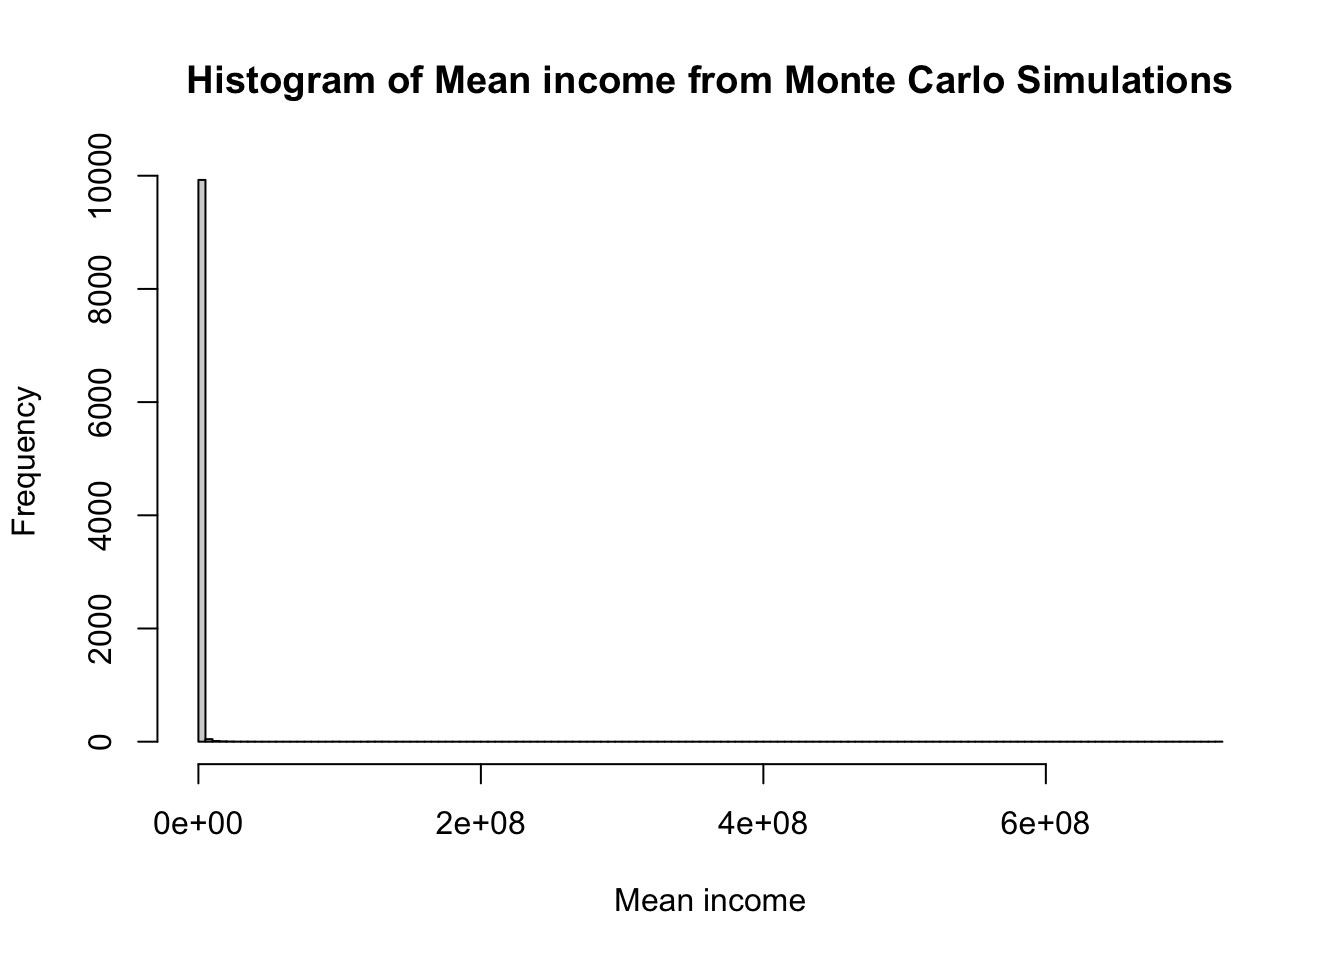
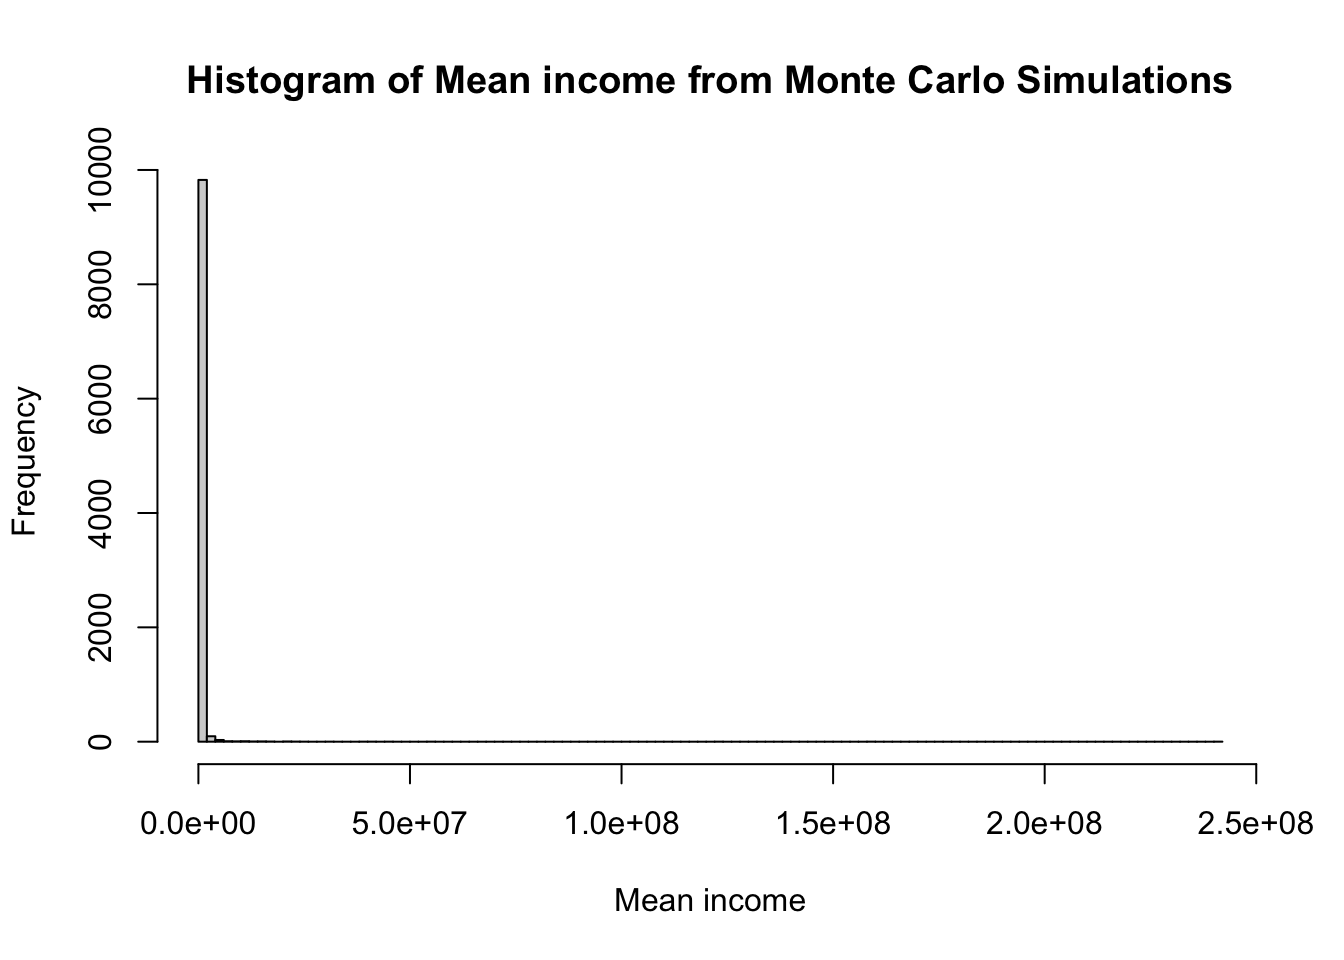
css change quarto side bar

diff --git a/docs/posts/gukesh.html b/docs/posts/gukesh.html
@@ -2036,7 +2036,37 @@ cookieconsent.run({
 <div id="quarto-sidebar-glass" class="quarto-sidebar-collapse-item" data-bs-toggle="collapse" data-bs-target=".quarto-sidebar-collapse-item"></div>
 <!-- margin-sidebar -->
     <div id="quarto-margin-sidebar" class="sidebar margin-sidebar"><div class="quarto-margin-header"><div class="margin-header-item">
-<p>subscribe.html</p>
+<div id="mc_embed_shell">
+      <link href="//cdn-images.mailchimp.com/embedcode/classic-061523.css" rel="stylesheet" type="text/css">
+  <style type="text/css">
+        #mc_embed_signup{background:#fff; false;clear:left; font:14px Helvetica,Arial,sans-serif; width: px;}
+        /* Add your own Mailchimp form style overrides in your site stylesheet or in this style block.
+           We recommend moving this block and the preceding CSS link to the HEAD of your HTML file. */
+</style>
+<div id="mc_embed_signup">
+    <form action="https://knotes.us17.list-manage.com/subscribe/post?u=cbd11e712b45e98cdaab2dd4d&amp;id=aeaca1e768&amp;f_id=00dbc2e1f0" method="post" id="mc-embedded-subscribe-form" name="mc-embedded-subscribe-form" class="validate" target="_blank">
+        <div id="mc_embed_signup_scroll"><h2>Subscribe</h2>
+            <div class="indicates-required"><span class="asterisk">*</span> indicates required</div>
+            <div class="mc-field-group"><label for="mce-EMAIL">Email Address <span class="asterisk">*</span></label><input type="email" name="EMAIL" class="required email" id="mce-EMAIL" required="" value=""></div>
+        <div id="mce-responses" class="clear foot">
+            <div class="response" id="mce-error-response" style="display: none;"></div>
+            <div class="response" id="mce-success-response" style="display: none;"></div>
+        </div>
+    <div aria-hidden="true" style="position: absolute; left: -5000px;">
+        /* real people should not fill this in and expect good things - do not remove this or risk form bot signups */
+        <input type="text" name="b_cbd11e712b45e98cdaab2dd4d_aeaca1e768" tabindex="-1" value="">
+    </div>
+        <div class="optionalParent">
+            <div class="clear foot">
+                <input type="submit" name="subscribe" id="mc-embedded-subscribe" class="button" value="Subscribe">
+                
+            </div>
+        </div>
+    </div>
+</form>
+</div>
+<script type="text/javascript" src="//s3.amazonaws.com/downloads.mailchimp.com/js/mc-validate.js"></script><script type="text/javascript">(function($) {window.fnames = new Array(); window.ftypes = new Array();fnames[0]='EMAIL';ftypes[0]='email';fnames[1]='FNAME';ftypes[1]='text';fnames[2]='LNAME';ftypes[2]='text';fnames[3]='ADDRESS';ftypes[3]='address';fnames[4]='PHONE';ftypes[4]='phone';fnames[5]='BIRTHDAY';ftypes[5]='birthday';}(jQuery));var $mcj = jQuery.noConflict(true);</script></div>
+
 </div></div>
         <nav id="TOC" role="doc-toc" class="toc-active">
     <h2 id="toc-title">On this page</h2>

diff --git a/docs/posts/pm.html b/docs/posts/pm.html
@@ -2027,7 +2027,37 @@ cookieconsent.run({
 <div id="quarto-sidebar-glass" class="quarto-sidebar-collapse-item" data-bs-toggle="collapse" data-bs-target=".quarto-sidebar-collapse-item"></div>
 <!-- margin-sidebar -->
     <div id="quarto-margin-sidebar" class="sidebar margin-sidebar"><div class="quarto-margin-header"><div class="margin-header-item">
-<p>subscribe.html</p>
+<div id="mc_embed_shell">
+      <link href="//cdn-images.mailchimp.com/embedcode/classic-061523.css" rel="stylesheet" type="text/css">
+  <style type="text/css">
+        #mc_embed_signup{background:#fff; false;clear:left; font:14px Helvetica,Arial,sans-serif; width: px;}
+        /* Add your own Mailchimp form style overrides in your site stylesheet or in this style block.
+           We recommend moving this block and the preceding CSS link to the HEAD of your HTML file. */
+</style>
+<div id="mc_embed_signup">
+    <form action="https://knotes.us17.list-manage.com/subscribe/post?u=cbd11e712b45e98cdaab2dd4d&amp;id=aeaca1e768&amp;f_id=00dbc2e1f0" method="post" id="mc-embedded-subscribe-form" name="mc-embedded-subscribe-form" class="validate" target="_blank">
+        <div id="mc_embed_signup_scroll"><h2>Subscribe</h2>
+            <div class="indicates-required"><span class="asterisk">*</span> indicates required</div>
+            <div class="mc-field-group"><label for="mce-EMAIL">Email Address <span class="asterisk">*</span></label><input type="email" name="EMAIL" class="required email" id="mce-EMAIL" required="" value=""></div>
+        <div id="mce-responses" class="clear foot">
+            <div class="response" id="mce-error-response" style="display: none;"></div>
+            <div class="response" id="mce-success-response" style="display: none;"></div>
+        </div>
+    <div aria-hidden="true" style="position: absolute; left: -5000px;">
+        /* real people should not fill this in and expect good things - do not remove this or risk form bot signups */
+        <input type="text" name="b_cbd11e712b45e98cdaab2dd4d_aeaca1e768" tabindex="-1" value="">
+    </div>
+        <div class="optionalParent">
+            <div class="clear foot">
+                <input type="submit" name="subscribe" id="mc-embedded-subscribe" class="button" value="Subscribe">
+                
+            </div>
+        </div>
+    </div>
+</form>
+</div>
+<script type="text/javascript" src="//s3.amazonaws.com/downloads.mailchimp.com/js/mc-validate.js"></script><script type="text/javascript">(function($) {window.fnames = new Array(); window.ftypes = new Array();fnames[0]='EMAIL';ftypes[0]='email';fnames[1]='FNAME';ftypes[1]='text';fnames[2]='LNAME';ftypes[2]='text';fnames[3]='ADDRESS';ftypes[3]='address';fnames[4]='PHONE';ftypes[4]='phone';fnames[5]='BIRTHDAY';ftypes[5]='birthday';}(jQuery));var $mcj = jQuery.noConflict(true);</script></div>
+
 </div></div>
         
     </div>

diff --git a/docs/posts/montecarlo.html b/docs/posts/montecarlo.html
@@ -2308,7 +2308,7 @@ Income distribution is not normal
 </details>
 <div class="cell-output cell-output-stdout">
 <pre><code>     Min.   1st Qu.    Median      Mean   3rd Qu.      Max. 
-   212167    296092    343582    629533    436999 720160384 </code></pre>
+   212225    296442    344112    570107    438926 241969613 </code></pre>
 </div>
 <details open="" class="code-fold">
 <summary>Code</summary>
@@ -2316,7 +2316,7 @@ Income distribution is not normal
 </details>
 <div class="cell-output cell-output-stdout">
 <pre><code>   Min. 1st Qu.  Median    Mean 3rd Qu.    Max. 
-  62091   64080   64512   64513   64937   66994 </code></pre>
+  62157   64068   64511   64509   64933   67070 </code></pre>
 </div>
 <details open="" class="code-fold">
 <summary>Code</summary>
@@ -2324,7 +2324,7 @@ Income distribution is not normal
 </details>
 <div class="cell-output cell-output-stdout">
 <pre><code>     Min.   1st Qu.    Median      Mean   3rd Qu.      Max. 
-8.952e+05 3.317e+06 5.716e+06 3.350e+07 1.190e+07 7.197e+10 </code></pre>
+9.149e+05 3.346e+06 5.665e+06 2.760e+07 1.202e+07 2.417e+10 </code></pre>
 </div>
 </div>
 </section>

diff --git a/docs/Biomedical/Research Methodology/wrangling.html b/docs/Biomedical/Research Methodology/wrangling.html
@@ -3602,12 +3602,12 @@ Record
 <div class="cell-output cell-output-stdout">
 <pre><code>     age   sex  class
    &lt;int&gt; &lt;int&gt; &lt;fctr&gt;
-1:     1     0  child
+1:     1     1  child
 2:     2     1  child
-3:     3     1  child
-4:     4     1  child
-5:     5     0  child
-6:     6     1  child</code></pre>
+3:     3     0  child
+4:     4     0  child
+5:     5     1  child
+6:     6     0  child</code></pre>
 </div>
 </div>
 <section id="making-data-wide" class="level3">
@@ -3625,12 +3625,12 @@ Record
 <pre><code>Key: &lt;age&gt;
      age      0      1
    &lt;int&gt; &lt;fctr&gt; &lt;fctr&gt;
-1:     1  child   &lt;NA&gt;
+1:     1   &lt;NA&gt;  child
 2:     2   &lt;NA&gt;  child
-3:     3   &lt;NA&gt;  child
-4:     4   &lt;NA&gt;  child
-5:     5  child   &lt;NA&gt;
-6:     6   &lt;NA&gt;  child</code></pre>
+3:     3  child   &lt;NA&gt;
+4:     4  child   &lt;NA&gt;
+5:     5   &lt;NA&gt;  child
+6:     6  child   &lt;NA&gt;</code></pre>
 </div>
 </div>
 

diff --git a/docs/posts.html b/docs/posts.html
@@ -2249,7 +2249,7 @@ Categories
 <span class="listing-categories">medicine</span>
 </td>
 </tr>
-<tr data-index="1" data-categories="bWVkaWNpbmU=" data-listing-date-sort="1733596200000" data-listing-file-modified-sort="1733654888959" data-listing-date-modified-sort="NaN" data-listing-reading-time-sort="3" data-listing-word-count-sort="592" data-listing-title-sort="What is Interval Training?" data-listing-filename-sort="hiit.qmd">
+<tr data-index="1" data-categories="bWVkaWNpbmU=" data-listing-date-sort="1733596200000" data-listing-file-modified-sort="1734191754432" data-listing-date-modified-sort="NaN" data-listing-reading-time-sort="3" data-listing-word-count-sort="592" data-listing-title-sort="What is Interval Training?" data-listing-filename-sort="hiit.qmd">
 <td>
 <span class="listing-date">Dec 8, 2024</span>
 </td>

diff --git a/docs/posts/hiit.html b/docs/posts/hiit.html
@@ -2167,8 +2167,8 @@ cookieconsent.run({
 <p>HIIT can be classified into various protocols based on work intensity, bout duration, session volume, and intervention duration<span class="citation" data-cites="Wen2019">(<a href="#ref-Wen2019" role="doc-biblioref">Wen et al. 2019</a>)</span>:</p>
 <table class="caption-top table">
 <colgroup>
-<col style="width: 27%">
-<col style="width: 72%">
+<col style="width: 50%">
+<col style="width: 50%">
 </colgroup>
 <thead>
 <tr class="header">

diff --git a/docs/styles.css b/docs/styles.css
@@ -18,3 +18,11 @@ table {
     overflow-x: auto; /* Enable horizontal scrolling */
     white-space: nowrap; /* Prevent table content from wrapping */
 }
+
+/* Make sidebar scrollable */
+#quarto-sidebar {
+    max-height: 100vh; /* Limit height to viewport */
+    overflow-y: auto;  /* Add vertical scroll when necessary */
+    position: sticky;  /* Keep sidebar fixed when scrolling */
+    top: 0;            /* Stick to the top */
+}

diff --git a/styles.css b/styles.css
@@ -18,3 +18,11 @@ table {
     overflow-x: auto; /* Enable horizontal scrolling */
     white-space: nowrap; /* Prevent table content from wrapping */
 }
+
+/* Make sidebar scrollable */
+#quarto-sidebar {
+    max-height: 100vh; /* Limit height to viewport */
+    overflow-y: auto;  /* Add vertical scroll when necessary */
+    position: sticky;  /* Keep sidebar fixed when scrolling */
+    top: 0;            /* Stick to the top */
+}
